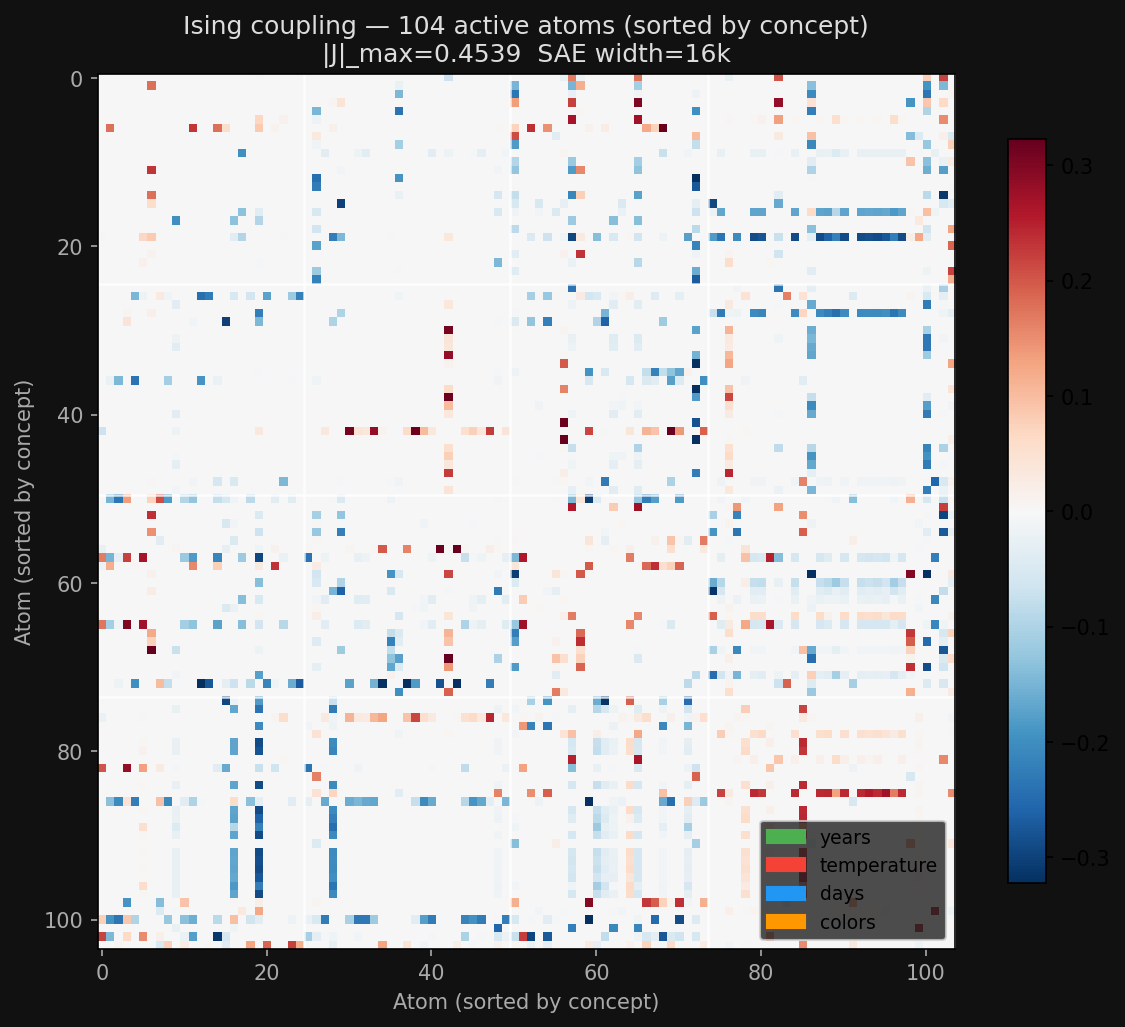
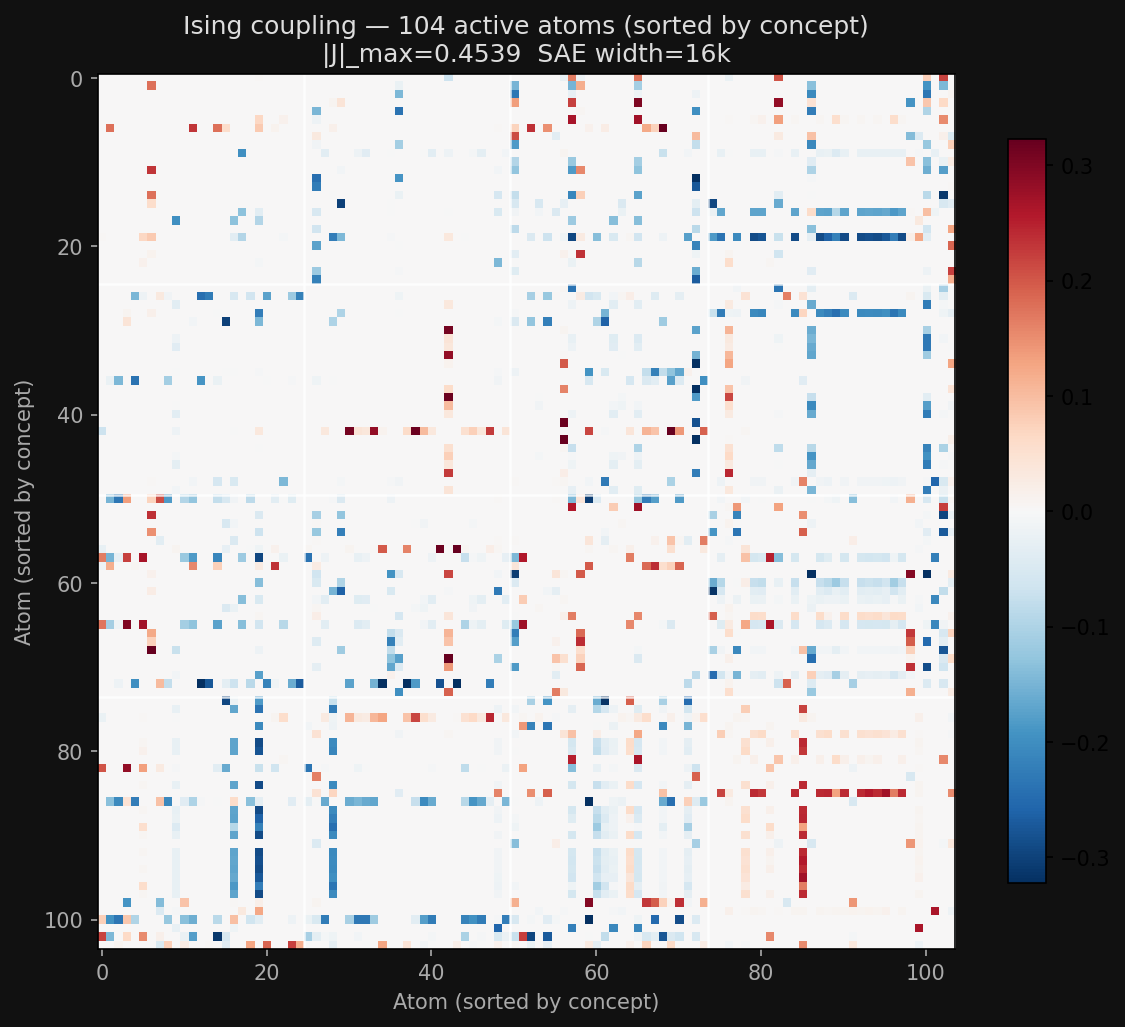
Remove extraneous legend from Ising coupling plot

Changed region(s): [[0.6533, 0.779, 0.84, 0.9348]]

diff --git a/run_gemma_eval.py b/run_gemma_eval.py
@@ -205,10 +205,6 @@ def plot_ising_matrix(
                 ax.axvline(x=k - 0.5, color="white", linewidth=1.2, alpha=0.8)
                 prev = c
 
-        patches = [mpatches.Patch(color=CONCEPT_COLORS[c], label=c) for c in CONCEPT_ORDER
-                   if c in set(concept_labels)]
-        ax.legend(handles=patches, loc="lower right", fontsize=9,
-                  framealpha=0.8, facecolor="#222")
 
     jmax = float(np.abs(J_sorted).max())
     ax.set_title(f"Ising coupling — {p} active atoms (sorted by concept)\n"